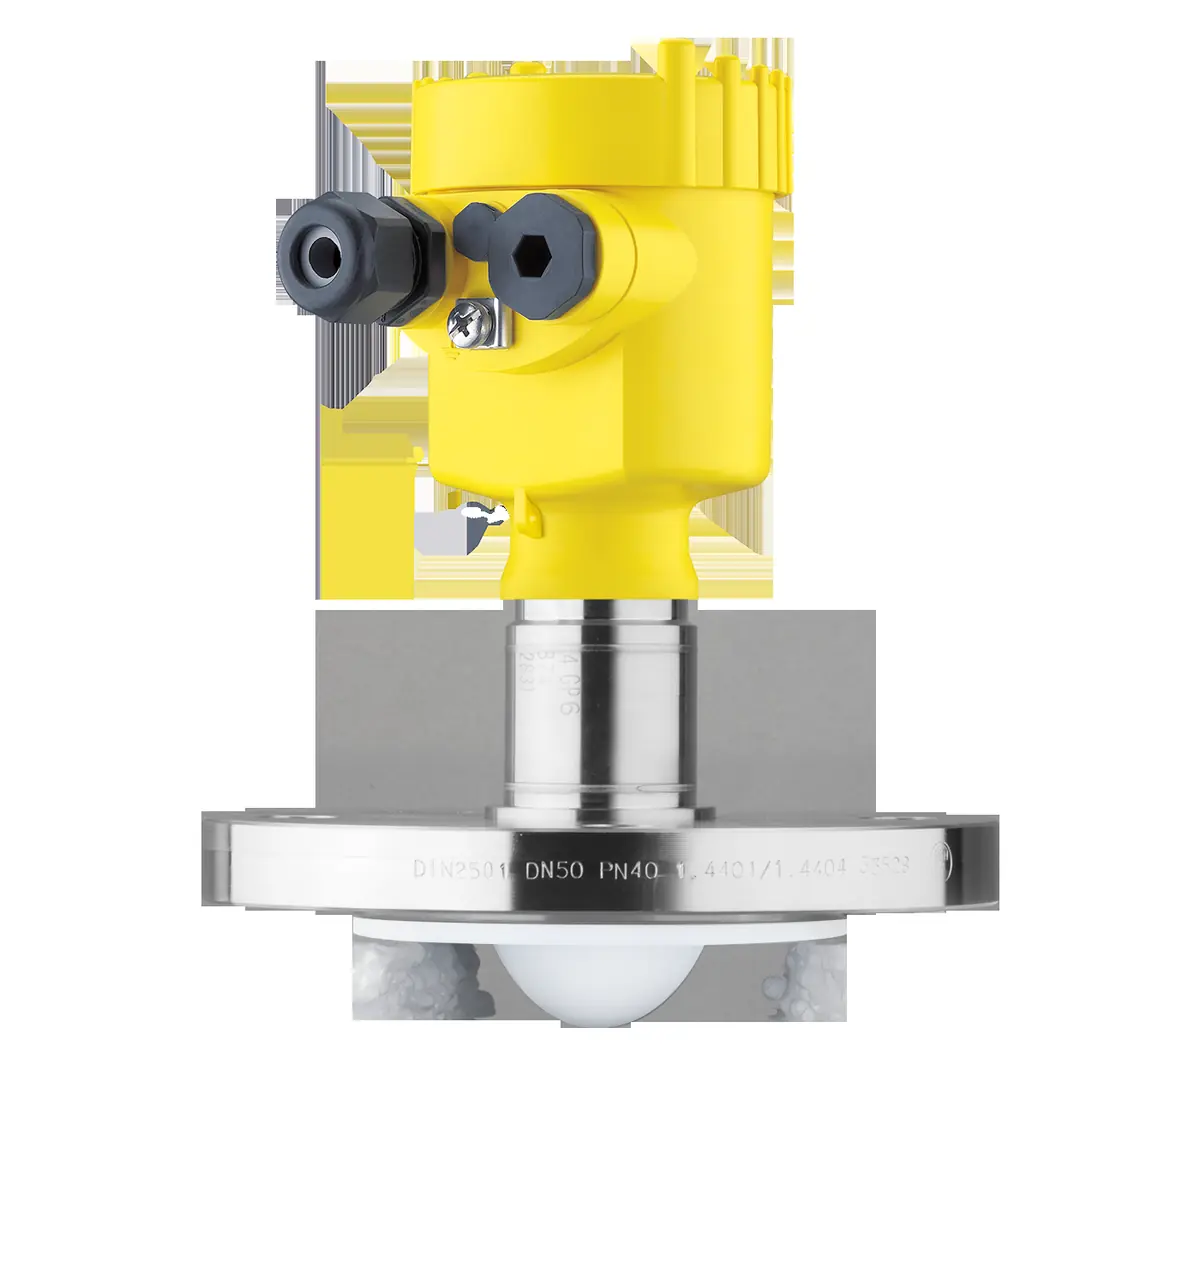
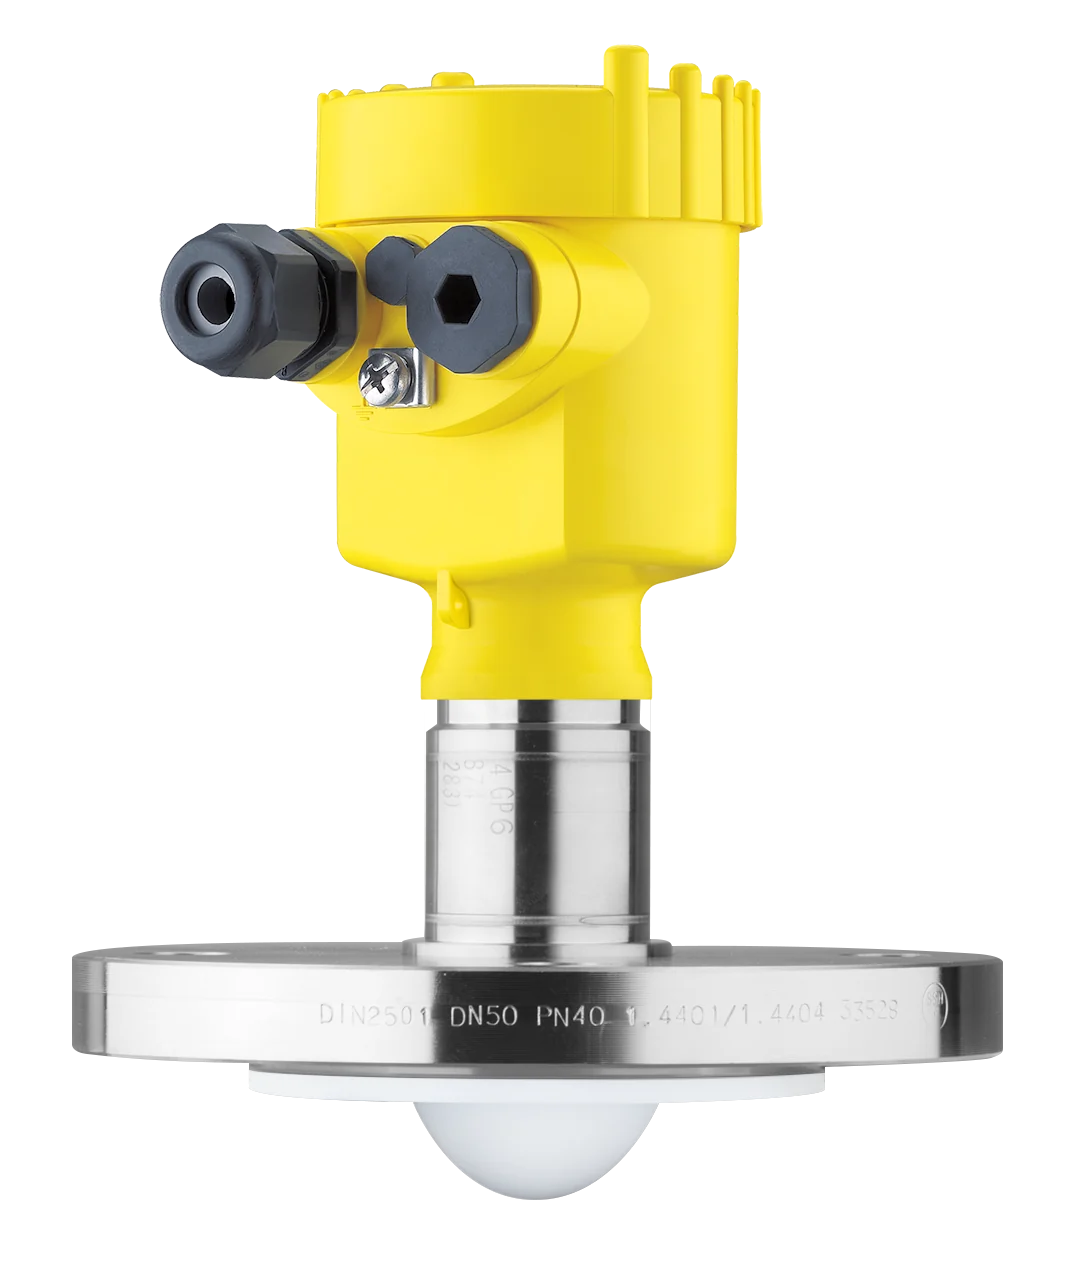
Replace the torn VEGAPULS product photo with the clean cutout.

diff --git a/assets/scripts/config/vega-products.js b/assets/scripts/config/vega-products.js
@@ -168,7 +168,7 @@ window.VEGA_CATALOG = {
       name: 'VEGAPULS',
       series: 'Basic — Compact Radar',
       category: 'level',
-      image: VEGA_IMG + 'product-vegapuls-photo.webp',
+      image: VEGA_IMG + 'product-vegapuls-photo.webp?v=20260923d',
       imageAlt: 'VEGAPULS compact radar level sensor',
       badge: 'فشرده',
       summaryFa: 'رادار فشرده و اقتصادی — جایگزین مطمئن اولتراسونیک؛ مناسب ارتقای سیستمهای قدیمی.',

diff --git a/ar/pages/vega.html b/ar/pages/vega.html
@@ -289,7 +289,7 @@
 
   </main>
 
-  <script src="/assets/scripts/site-loader.js?v=20260923c" data-after-seo="i18n/supply-catalog-i18n.js" data-after-page-i18n="config/vega-products.js" data-before-main="vega-page.js"></script>
+  <script src="/assets/scripts/site-loader.js?v=20260923d" data-after-seo="i18n/supply-catalog-i18n.js" data-after-page-i18n="config/vega-products.js" data-before-main="vega-page.js"></script>
   
 
   <script>

diff --git a/en/pages/vega.html b/en/pages/vega.html
@@ -289,7 +289,7 @@
 
   </main>
 
-  <script src="/assets/scripts/site-loader.js?v=20260923c" data-after-seo="i18n/supply-catalog-i18n.js" data-after-page-i18n="config/vega-products.js" data-before-main="vega-page.js"></script>
+  <script src="/assets/scripts/site-loader.js?v=20260923d" data-after-seo="i18n/supply-catalog-i18n.js" data-after-page-i18n="config/vega-products.js" data-before-main="vega-page.js"></script>
   
 
   <script>

diff --git a/pages/vega.html b/pages/vega.html
@@ -289,7 +289,7 @@
 
   </main>
 
-  <script src="/assets/scripts/site-loader.js?v=20260923c" data-after-seo="i18n/supply-catalog-i18n.js" data-after-page-i18n="config/vega-products.js" data-before-main="vega-page.js"></script>
+  <script src="/assets/scripts/site-loader.js?v=20260923d" data-after-seo="i18n/supply-catalog-i18n.js" data-after-page-i18n="config/vega-products.js" data-before-main="vega-page.js"></script>
   
 
   <script>

diff --git a/ru/pages/vega.html b/ru/pages/vega.html
@@ -289,7 +289,7 @@
 
   </main>
 
-  <script src="/assets/scripts/site-loader.js?v=20260923c" data-after-seo="i18n/supply-catalog-i18n.js" data-after-page-i18n="config/vega-products.js" data-before-main="vega-page.js"></script>
+  <script src="/assets/scripts/site-loader.js?v=20260923d" data-after-seo="i18n/supply-catalog-i18n.js" data-after-page-i18n="config/vega-products.js" data-before-main="vega-page.js"></script>
   
 
   <script>

diff --git a/tr/pages/vega.html b/tr/pages/vega.html
@@ -289,7 +289,7 @@
 
   </main>
 
-  <script src="/assets/scripts/site-loader.js?v=20260923c" data-after-seo="i18n/supply-catalog-i18n.js" data-after-page-i18n="config/vega-products.js" data-before-main="vega-page.js"></script>
+  <script src="/assets/scripts/site-loader.js?v=20260923d" data-after-seo="i18n/supply-catalog-i18n.js" data-after-page-i18n="config/vega-products.js" data-before-main="vega-page.js"></script>
   
 
   <script>

diff --git a/assets/scripts/site-loader.js b/assets/scripts/site-loader.js
@@ -14,7 +14,7 @@
   if (!el) return;
 
   var BASE = '/assets/scripts/';
-  var ASSET_VER = '20260923c';
+  var ASSET_VER = '20260923d';
 
   // Inline page boots run before deferred chain scripts; queue until bootstrap.js.
   window.bizdavarPageInit = window.bizdavarPageInit || function (fn) {
